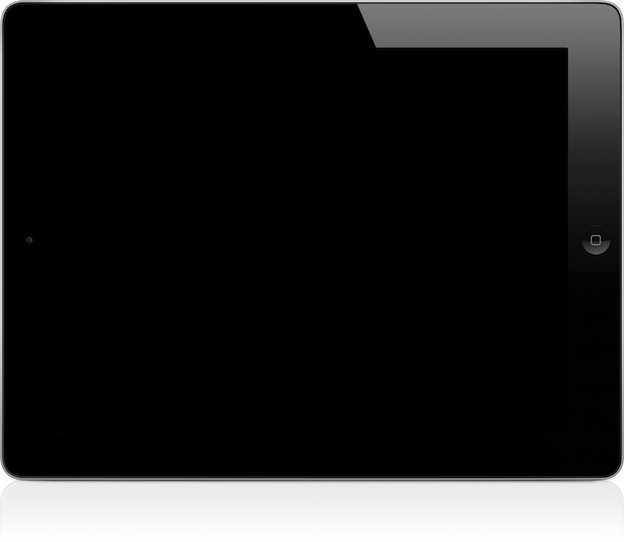
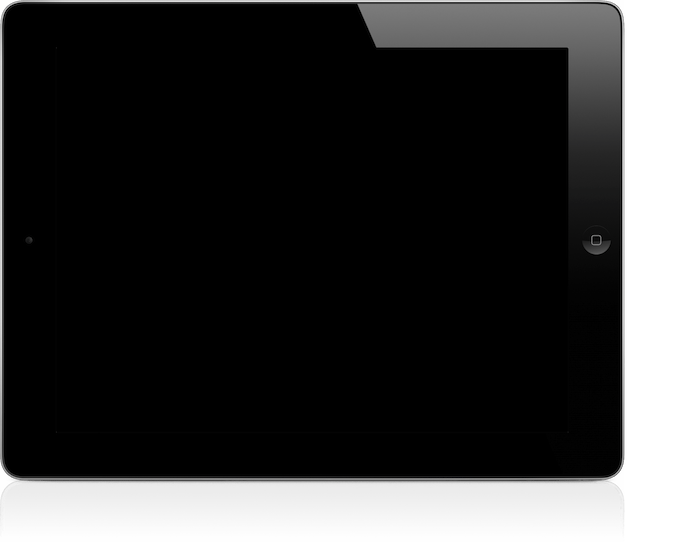
Add more space to the right side of the iPad image.

diff --git a/web/index.html b/web/index.html
@@ -40,7 +40,7 @@
       position: absolute;
       top: 100px;
       left: 700px; 
-      width: 624px;
+      width: 687px;
       height: 542px;
       background-size: 100%;
       background-image: url(ipad_outer.png);
